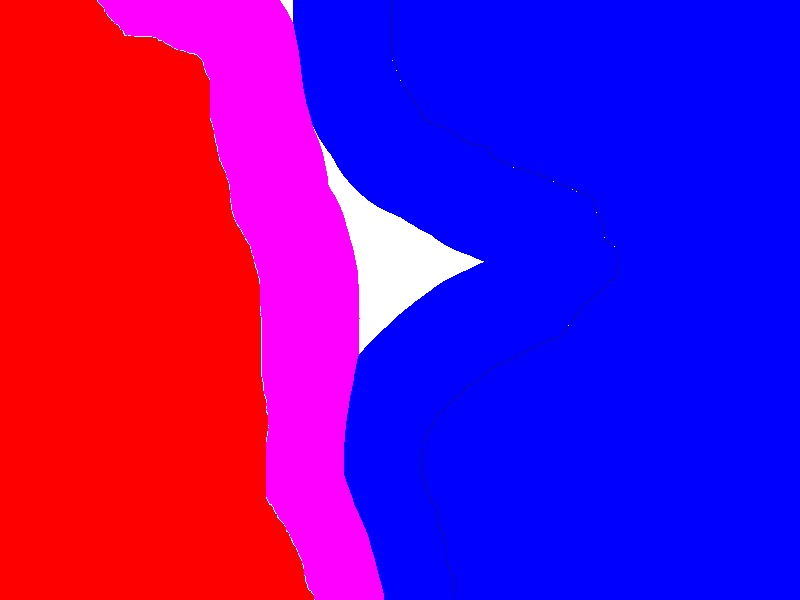
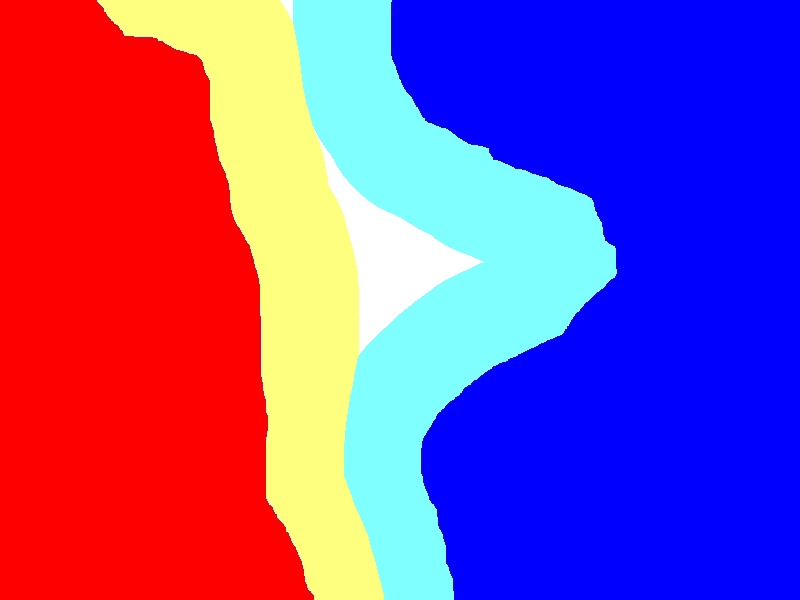
Configurable parameters, including zone colours. No more magic numbers.

Changed region(s): [[0.125, 0.0, 0.7812, 1.0]]

diff --git a/inc/ZoneTools.h b/inc/ZoneTools.h
@@ -2,13 +2,46 @@
 #define _ZONE_TOOLS
 
 #include <limits>
+#include <filesystem>
+#include <boost/property_tree/ptree.hpp>
+
+enum RETURN_CODE
+{
+	OK = 0,
+	ERR_FILE_NOT_FOUND = -1,
+	ERR_INVALID_ZONE_INFO = -2
+};
+
+std::string SEA_ZONE_NAME = "Sea";
 
 using namespace cv;
 
-typedef std::vector<Vec3d> ZoneInfo;
-
+typedef boost::property_tree::ptree ConfigParams;
+typedef boost::property_tree::ptree ZoneInfo;
+typedef std::vector<Vec3d> Territories;
+typedef std::vector<Vec3d> Waters;
 
 // ----- HELPERS -------------------------------------------------
+
+std::string getFileParameter(const std::filesystem::path& configFilePath,
+	const boost::property_tree::ptree& configParams,
+	const std::string& key)
+{
+	auto configFileFolder = configFilePath.parent_path();
+	return configFileFolder.append(configParams.get<std::string>(key)).string();
+	// TODO: handle absolute paths (the above only deals with relatives to the config file location)
+}
+
+Vec3d PtreeToVec3d(const boost::property_tree::ptree& V)
+{
+	Vec3d result(0, 0, 0);
+	int i = 0;
+	for (auto it = V.begin(); it != V.end(); ++it) {
+		result[i] = std::stof(it->second.data());
+		i++;
+	}
+	return result;
+}
 
 bool AreAlmostEqual(const Vec3d& v1, const Vec3d& v2, double epsilon = 1e-4)
 {
@@ -22,21 +55,21 @@ bool AreAlmostEqual(const Vec3d& v1, const Vec3d& v2, double epsilon = 1e-4)
 	return true;
 }
 
-bool IsSea(const Vec3d& colour, const ZoneInfo& zone_info, double epsilon = 1e-4)
+bool IsSea(const Vec3d& colour, const Vec3d& sea_colour, double epsilon = 1e-4)
 {
-	return AreAlmostEqual(colour, zone_info[0], epsilon);
+	return AreAlmostEqual(colour, sea_colour, epsilon);
 }
 
-bool IsLand(const Vec3d& colour, const ZoneInfo& zone_info, double epsilon = 1e-4)
+bool IsLand(const Vec3d& colour, const Territories& territory_colours, double epsilon = 1e-4)
 {
-	for (size_t i = 1; i < zone_info.size(); i++)
+
+	for (size_t i = 1; i < territory_colours.size(); i++)
 	{
-		if (AreAlmostEqual(colour, zone_info[i], epsilon))
+		if (AreAlmostEqual(colour, territory_colours[i], epsilon))
 		{
 			return true;
 		}
 	}
-	   
 	return false;
 }
 
@@ -59,14 +92,14 @@ double EucDist(const Vec3f& v1, const Vec3f& v2)
 
 // --------------------------------------------------------------------------
 
-size_t FindZoneIdFromColour(const Vec3d& colour, const ZoneInfo& zone_info)
+size_t FindZoneIdFromColour(const Vec3d& colour, const Territories& territory_colours)
 {
 	size_t zone = 0;
 	double min_dist = std::numeric_limits<double>::max();
 
-	for (size_t zone_id = 1; zone_id < zone_info.size(); zone_id++)
+	for (size_t zone_id = 1; zone_id < territory_colours.size(); zone_id++)
 	{
-		auto d = EucDist(colour, zone_info[zone_id]);
+		auto d = EucDist(colour, territory_colours[zone_id]);
 		if (d < min_dist)
 		{
 			min_dist = d;
@@ -78,7 +111,7 @@ size_t FindZoneIdFromColour(const Vec3d& colour, const ZoneInfo& zone_info)
 }
 
 
-size_t FindZone(const cv::Mat& m, const int& row, const int& col, const double& width, const ZoneInfo& zone_info)
+size_t FindZone(const cv::Mat& m, const int& row, const int& col, const double& width, const double& colour_epsilon, const Territories& territory_colours)
 {
 	int rows = m.rows;
 	int cols = m.cols;
@@ -97,7 +130,7 @@ size_t FindZone(const cv::Mat& m, const int& row, const int& col, const double& 
 	{
 		for (auto c = col_start; c <= col_end; c++)
 		{
-			if (IsLand(m.at<Vec3d>(r, c), zone_info, 20))
+			if (IsLand(m.at<Vec3d>(r, c), territory_colours, colour_epsilon))
 			{
 				auto d = EucDist(row, col, r, c);
 				if (d < nearest_land_distance)
@@ -115,12 +148,12 @@ size_t FindZone(const cv::Mat& m, const int& row, const int& col, const double& 
 		return 0;
 	}
 
-	auto zone = FindZoneIdFromColour(m.at<Vec3d>(nearest_land_row, nearest_land_col), zone_info);
+	auto zone = FindZoneIdFromColour(m.at<Vec3d>(nearest_land_row, nearest_land_col), territory_colours);
 	return zone;
 }
 
 
-Mat CalcZones(const cv::Mat& m_in, const double& width, const ZoneInfo& zone_info) 
+Mat CalcZones(const cv::Mat& m_in, const ConfigParams& configParams, const ZoneInfo& zone_info) 
 { 
 	Mat m;
 	m_in.convertTo(m, CV_64F);
@@ -128,20 +161,54 @@ Mat CalcZones(const cv::Mat& m_in, const double& width, const ZoneInfo& zone_inf
 
 	size_t rows = m_in.rows;
 	size_t cols = m_in.cols;
-	auto sea_colour = zone_info[0];
-	auto num_zones = zone_info.size() - 1;
+
+	Territories territories;
+	Waters waters;
+	Vec3d sea_colour;
+	
+	auto width = configParams.get<double>("zones.width");
+	auto colour_epsilon = configParams.get<double>("zones.colour_epsilon");
+
+	auto &zones = zone_info.get_child("Zones");
+	size_t i = 0;
+	for (auto zone = zones.begin(); zone != zones.end(); ++zone)
+	{
+		std::string zone_name = zone->first.data();
+		auto zone_colours = zone->second;
+		if (i == 0)
+		{
+			if (zone_name == SEA_ZONE_NAME) 
+			{
+				sea_colour = PtreeToVec3d(zone_colours.get_child("Waters"));
+				territories.push_back(sea_colour);
+				waters.push_back(sea_colour);
+			}
+			else
+			{
+				std::cout << "Error in zone info json file. First zone must be called \"" + SEA_ZONE_NAME + "\" and contain the sea water colour" << std::endl;
+				exit(RETURN_CODE::ERR_INVALID_ZONE_INFO);
+			}
+		}
+		else
+		{
+			territories.push_back(PtreeToVec3d(zone_colours.get_child("Territory")));
+			waters.push_back(PtreeToVec3d(zone_colours.get_child("Waters")));
+		}
+		i++;
+	}
+	auto num_zones = zones.size() - 1;
 
 	for (auto row = 0; row < rows; row++)
 	{
 		for (auto col = 0; col < cols; col++)
 		{
 			auto colour = m.at<Vec3d>(row, col);
-			if (IsSea(colour, zone_info, 20))
+			if (IsSea(colour, sea_colour, colour_epsilon))
 			{
-				auto zone_id = FindZone(m, row, col, width, zone_info);
+				auto zone_id = FindZone(m, row, col, width, colour_epsilon, territories);
 				if (zone_id > 0)
 				{
-					m_out.at<Vec3b>(row, col) = { 0xFF, (uchar)(zone_info[zone_id][1]), (uchar)(zone_info[zone_id][2]) };
+					m_out.at<Vec3b>(row, col) = { (uchar)(waters[zone_id][0]), (uchar)(waters[zone_id][1]), (uchar)(waters[zone_id][2]) };
 				}
 			}
 		}

diff --git a/apps/ZoneCalculator/ZoneCalculator.cpp b/apps/ZoneCalculator/ZoneCalculator.cpp
@@ -6,10 +6,8 @@
 #include <opencv2/highgui.hpp>
 #include <boost/property_tree/ptree.hpp>
 #include <boost/property_tree/ini_parser.hpp>
-#include <filesystem>
+#include <boost/property_tree/json_parser.hpp>
 #include <iostream>
-
-
 #include <ZoneTools.h>
 
 using namespace cv;
@@ -23,40 +21,35 @@ int main(int argc, char** argv)
         return -1;
     }
 
-    boost::property_tree::ptree configParams;
+    ConfigParams configParams;
     boost::property_tree::ini_parser::read_ini(argv[1], configParams);
    
     // Input and output files
     std::filesystem::path configFilePath(argv[1]);
-    auto configFileFolder = configFilePath.parent_path();
-    auto image_in = configFileFolder.append(configParams.get<std::string>("files.image_in")).string();
-    configFileFolder = configFilePath.parent_path();
-    auto image_out = configFileFolder.append(configParams.get<std::string>("files.image_out")).string();
+    auto image_in = getFileParameter(configFilePath, configParams, "files.image_in");
+    auto image_out = getFileParameter(configFilePath, configParams, "files.image_out");
+    auto zone_info_file = getFileParameter(configFilePath, configParams, "files.zone_info");
+
+    // Zone info
+    ZoneInfo zoneInfo;
+    boost::property_tree::json_parser::read_json(zone_info_file, zoneInfo);
 
     Mat image;
     image = imread(image_in, IMREAD_COLOR); 
     if (image.empty()) 
     {
         std::cout << "Could not open or find the image" << std::endl;
-        return -1;
+        return RETURN_CODE::ERR_FILE_NOT_FOUND;
     }
     
-    // TODO: User parameters
-    double width = 100.0;
-    ZoneInfo zone_info = {
-        (Vec3d)image.at<Vec3b>(1, 300),
-        (Vec3d)image.at<Vec3b>(1, 1),
-        (Vec3d)image.at<Vec3b>(1, 600)
-    };
-
-    auto image_with_zones = CalcZones(image, width, zone_info);
+    auto image_with_zones = CalcZones(image, configParams, zoneInfo);
 
     imwrite(image_out, image);
     
-    namedWindow("Display window", WINDOW_AUTOSIZE); // Create a window for display.
-    imshow("Display window", image_with_zones); // Show our image inside it.
-    waitKey(0); // Wait for a keystroke in the window
+    namedWindow("Display window", WINDOW_AUTOSIZE); 
+    imshow("Display window", image_with_zones); 
+    waitKey(0); 
 
-    return 0;
+    return RETURN_CODE::OK;
 }
 
